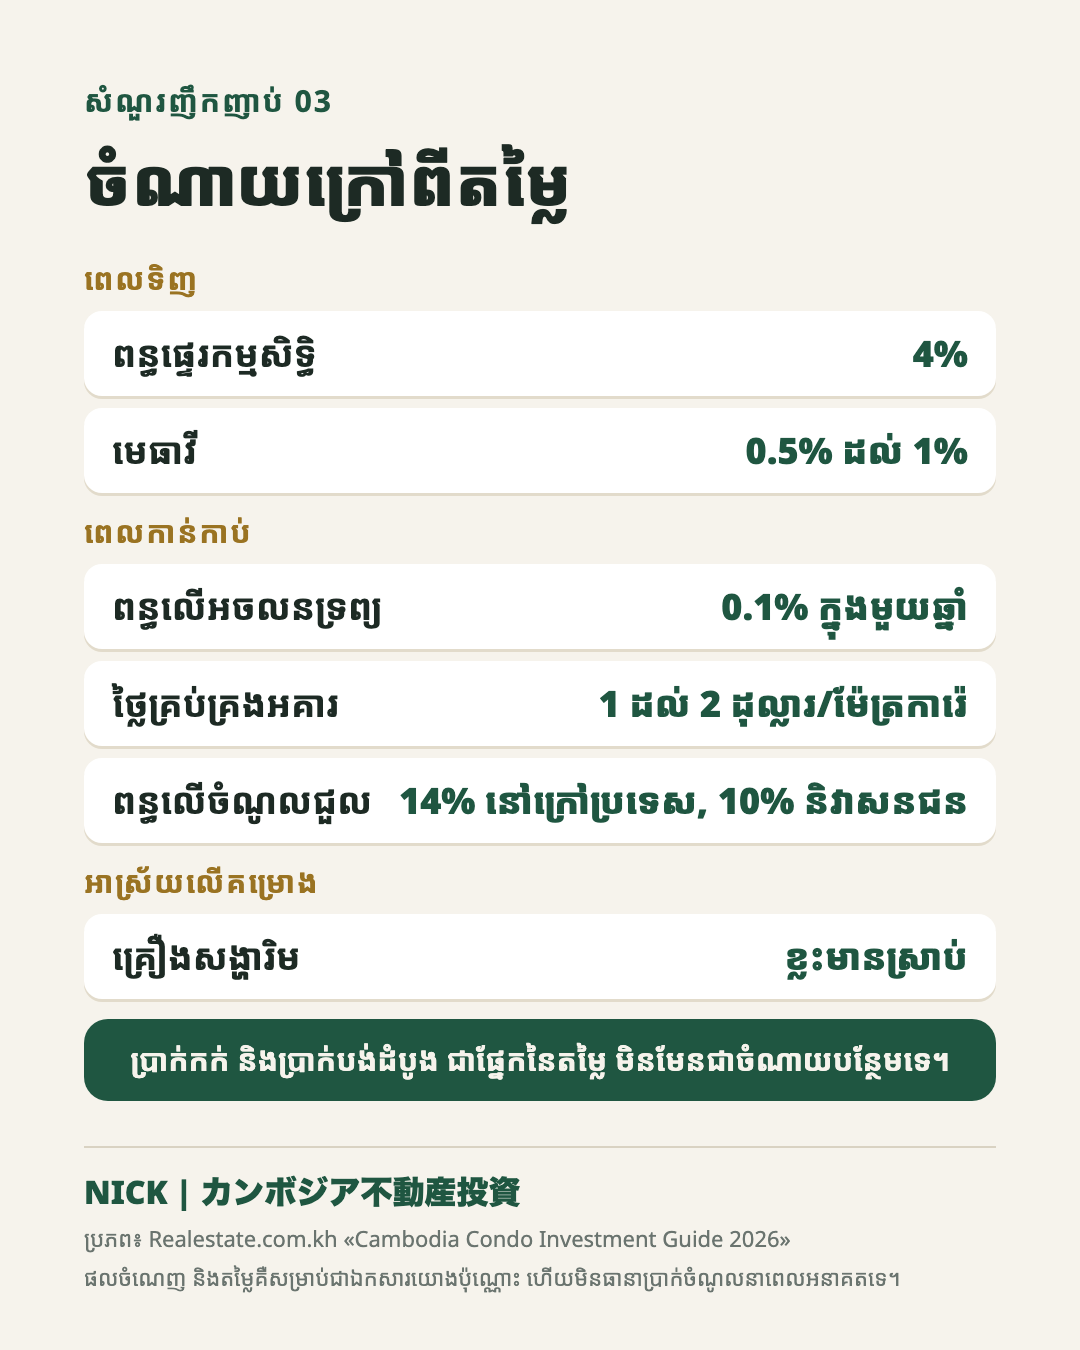
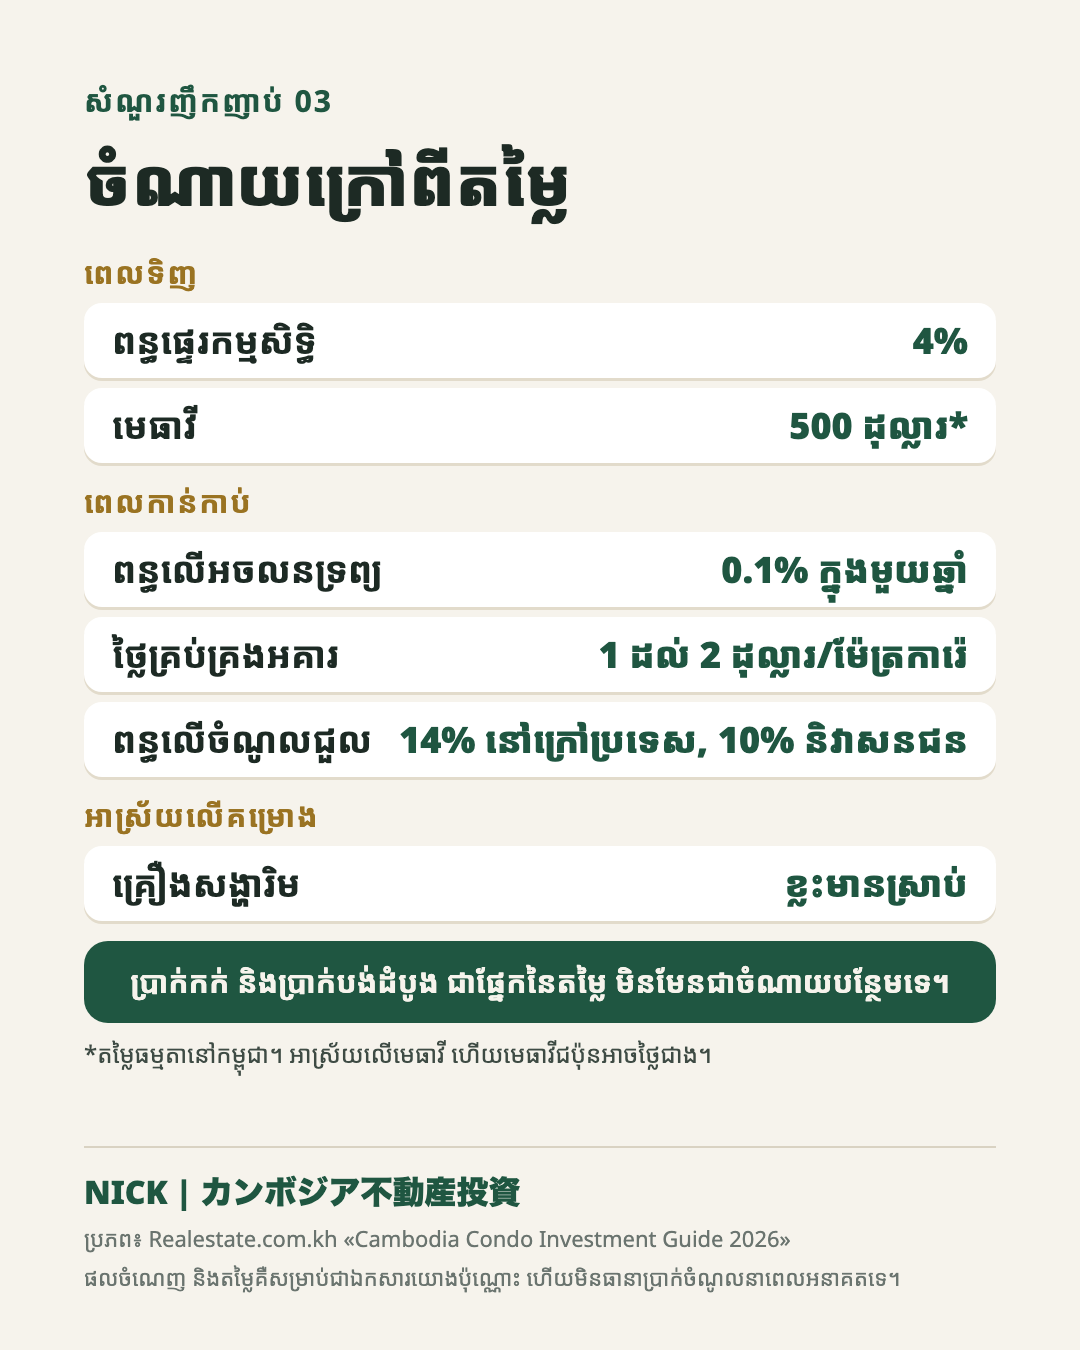
FAQ costs: lawyer fee is $500* (usual in Cambodia; a Japanese lawyer may cost more)

Changed region(s): [[0.0611, 0.1867, 0.9472, 0.84]]

diff --git a/telegram-bot-public/assets/faq/khmer-drafts.md b/telegram-bot-public/assets/faq/khmer-drafts.md
@@ -22,7 +22,7 @@ Please check: the wording, "ជាន់ទី ១" for the first floor above th
 
 <b>ពេលទិញ</b>
 ▫ <b>ពន្ធផ្ទេរកម្មសិទ្ធិ៖</b> 4%
-▫ <b>មេធាវី៖</b> 0.5% ដល់ 1%
+▫ <b>មេធាវី៖</b> 500 ដុល្លារ*
 
 <b>ពេលកាន់កាប់</b>
 ▫ <b>ពន្ធលើអចលនទ្រព្យ៖</b> 0.1% ក្នុងមួយឆ្នាំ
@@ -31,6 +31,8 @@ Please check: the wording, "ជាន់ទី ១" for the first floor above th
 
 <b>អាស្រ័យលើគម្រោង</b>
 ▫ <b>គ្រឿងសង្ហារិម៖</b> បន្ទប់ខ្លះមានគ្រឿងសង្ហារិមស្រាប់
+
+<i>*តម្លៃធម្មតានៅកម្ពុជា។ អាស្រ័យលើមេធាវី ហើយមេធាវីជប៉ុនអាចថ្លៃជាង។</i>
 
 <blockquote>ប្រាក់កក់ និងប្រាក់បង់ដំបូង ជាផ្នែកនៃតម្លៃ មិនមែនជាចំណាយបន្ថែមទេ។</blockquote>
 អ្នកអភិវឌ្ឍខ្លះបង់ពន្ធផ្ទេរកម្មសិទ្ធិជំនួស ជាប្រូម៉ូសិន។ Nick នឹងបញ្ជាក់តួលេខសម្រាប់គម្រោងនីមួយៗ។
